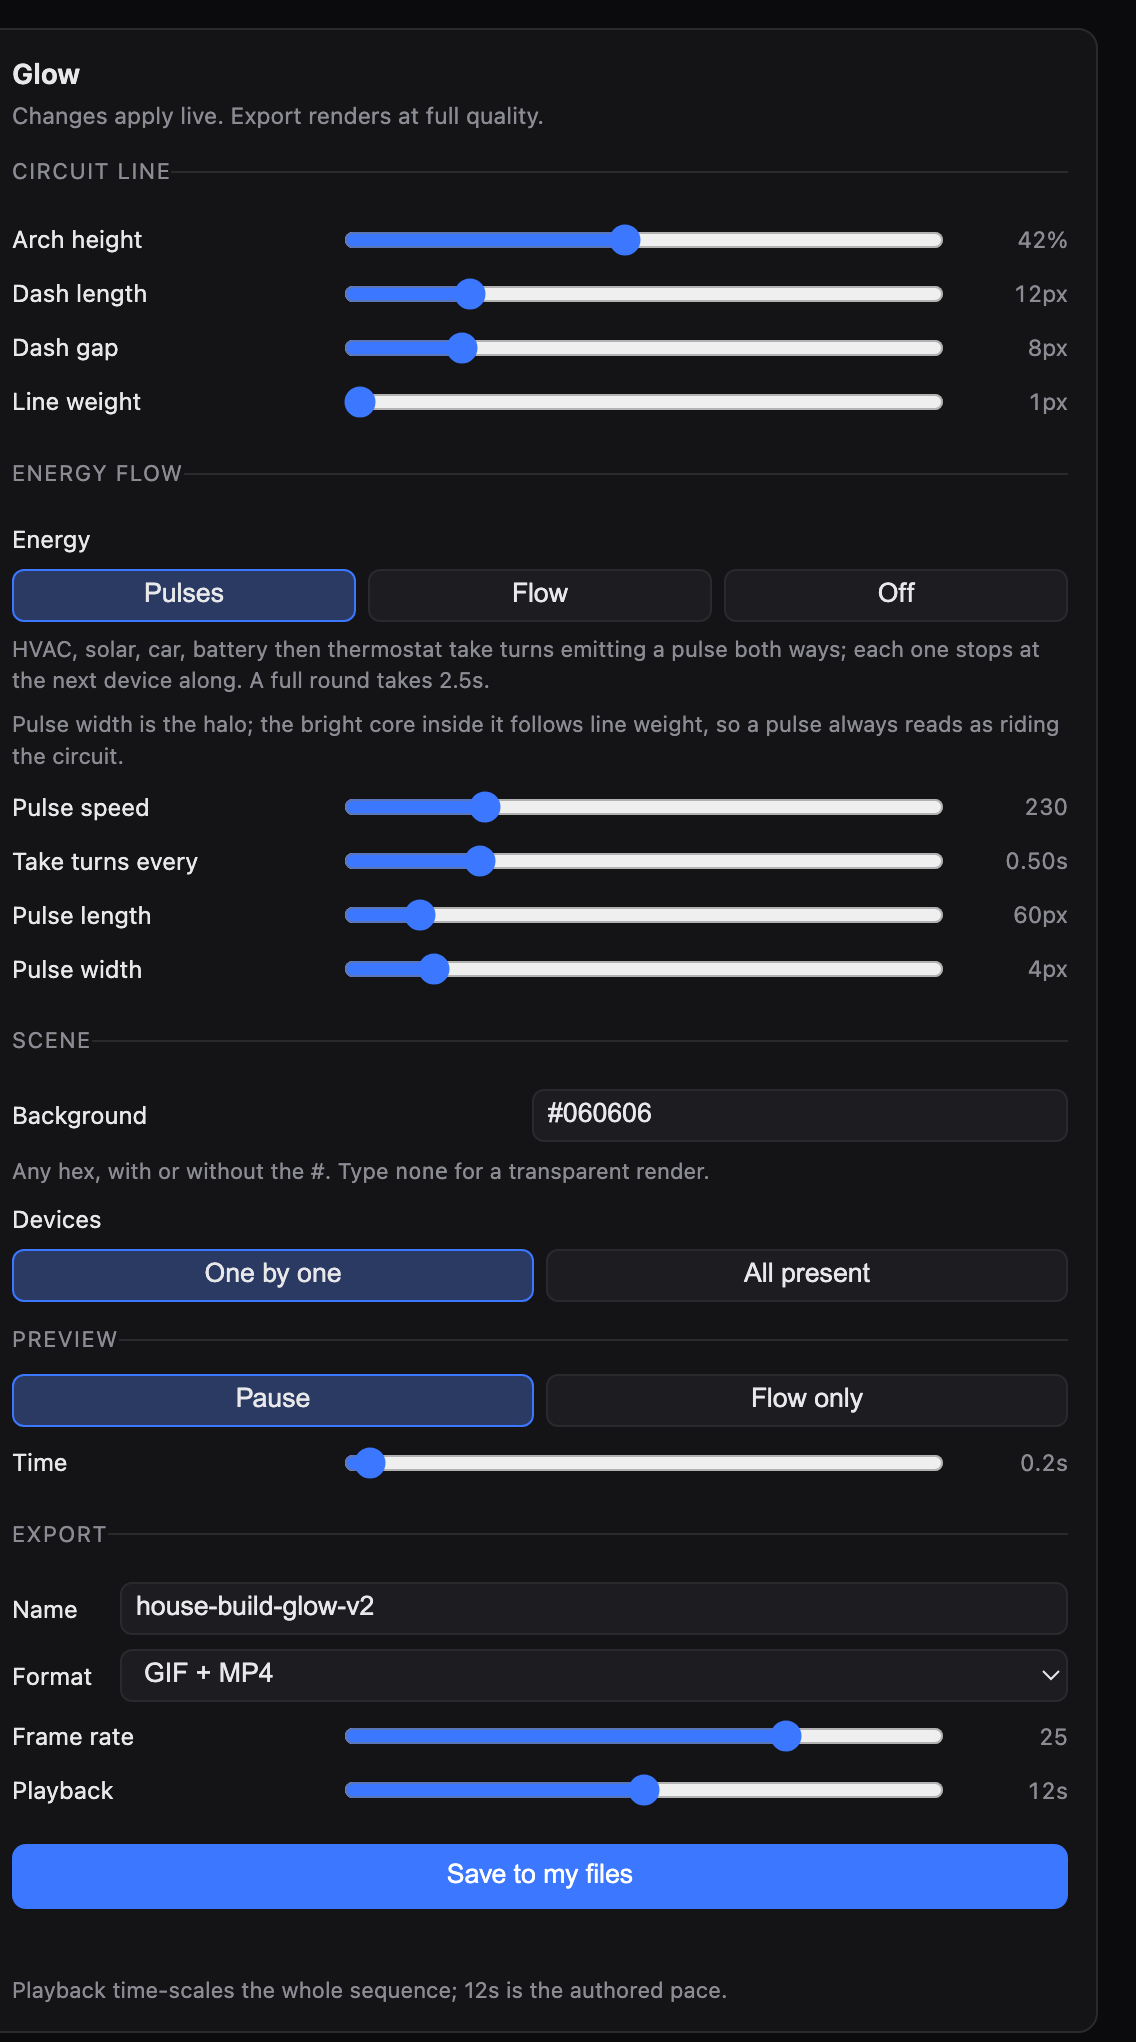
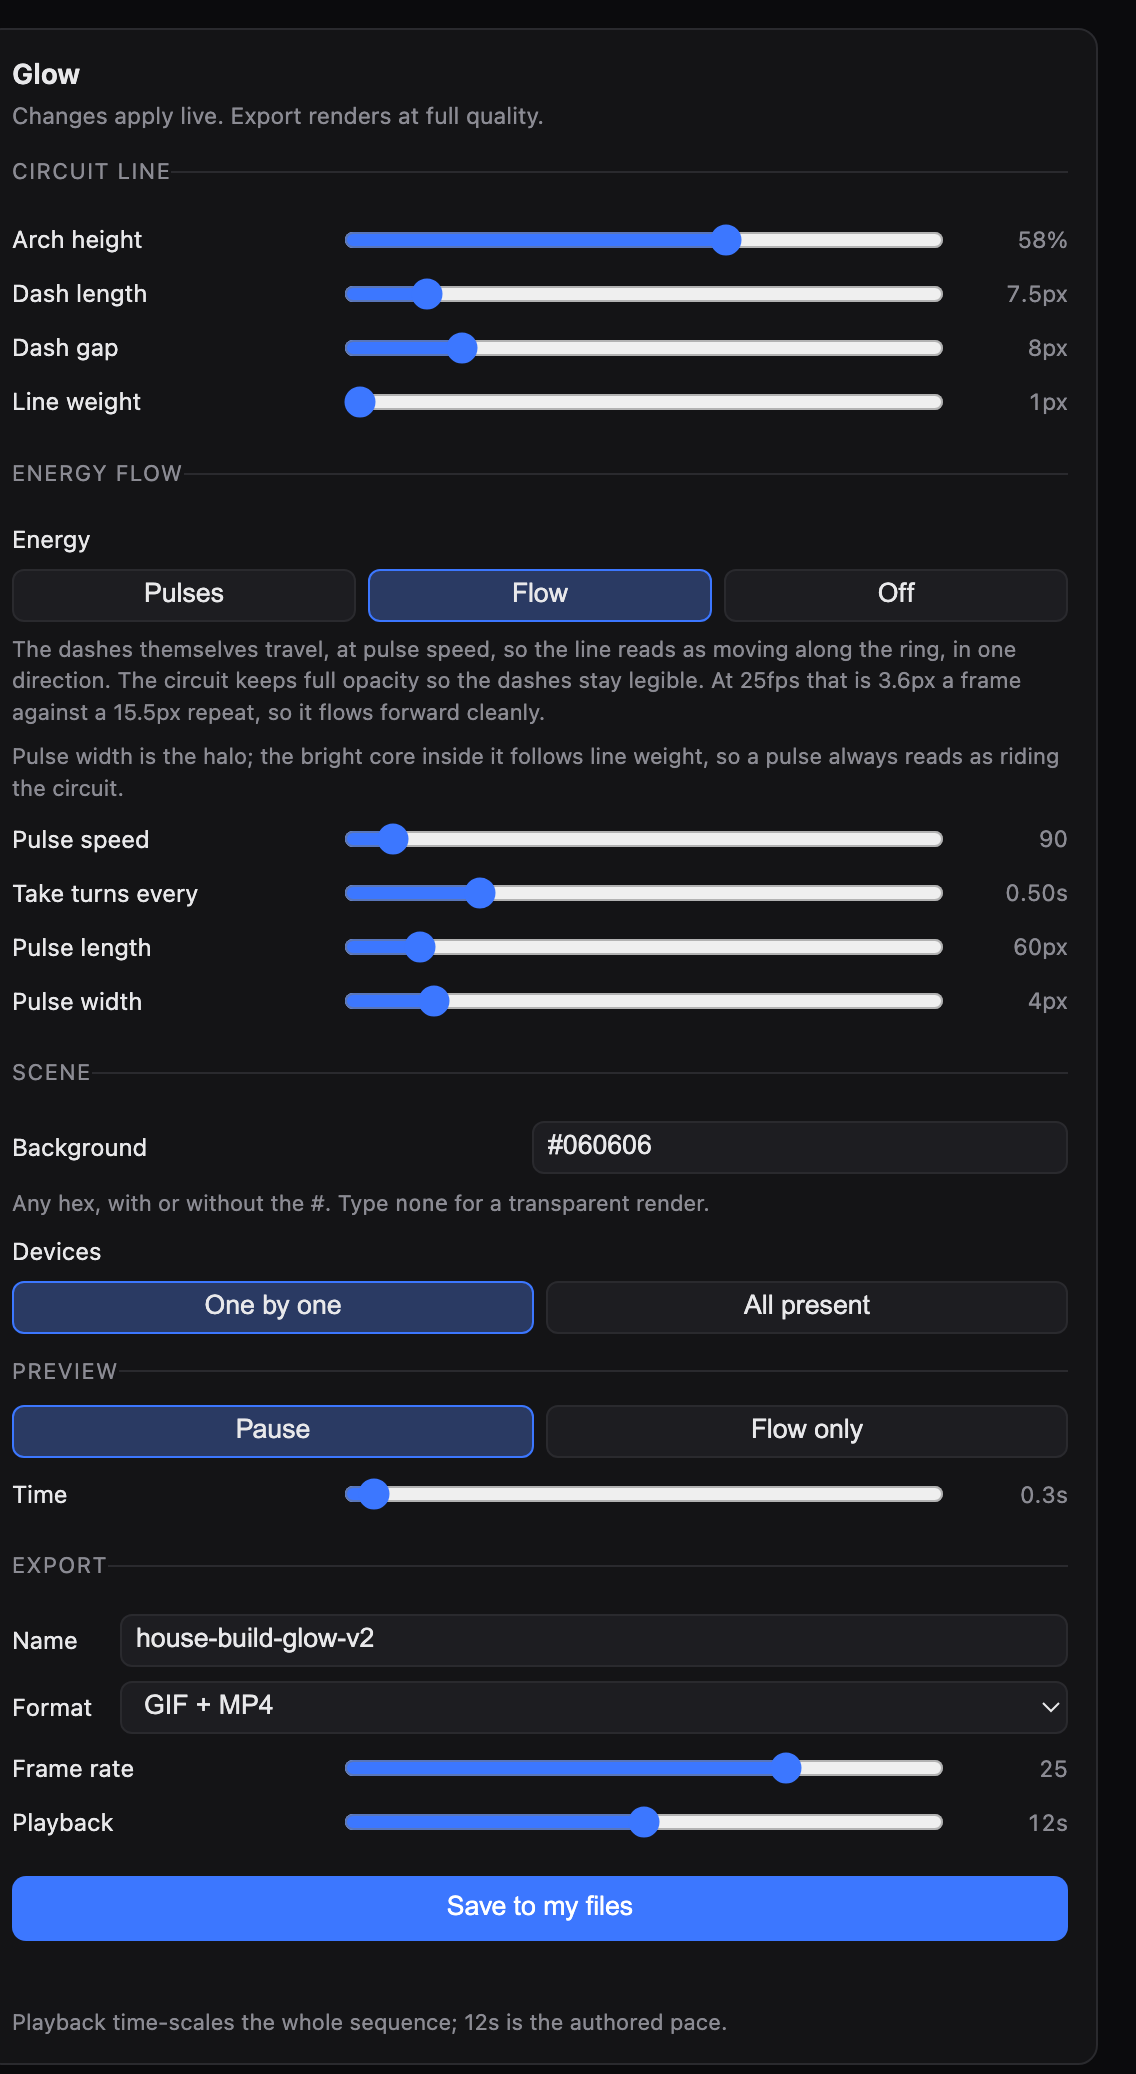
Default to flowing dashes at the tuned settings
Opens on Flow rather than Pulses, with arch height 58%, 7.5px dashes on 8px
gaps and 90px/s. That combination moves 3.6px a frame at 25fps against a
15.5px repeat, so it flows forward well clear of the aliasing threshold.

diff --git a/house-animation-glow.html b/house-animation-glow.html
@@ -187,14 +187,14 @@ const D = {
   houseFade: 0.60, mode: "sequence",
   lineDim: 0.4,        // the drawn circuit settles to this once pulses start
   layout: "ring",      // "ring" | "spokes" arches, or "wires" for the old circuit
-  arch: 0.42,          // control-point lift, as a fraction of the chord
-  dashLen: 12,         // px of drawn dash along an arch
+  arch: 0.58,          // control-point lift, as a fraction of the chord
+  dashLen: 7.5,        // px of drawn dash along an arch
   dotGap: 8,           // px of gap between dashes
   source: "devices",   // "loop" = pulses circling; "devices" = emitted by each device
   showLine: 1,         // 0 hides the circuit, leaving only the pulses
-  energy: "pulses",    // "pulses" | "flow" (the dots march) | "off"
+  energy: "flow",      // "pulses" | "flow" (the dashes march) | "off"
   emitEvery: 0.50,     // seconds between successive emissions (one device each)
-  pulseSpeed: 230      // px/sec outward
+  pulseSpeed: 90       // px/sec outward
 };
 const q = new URLSearchParams(location.search);
 const num = k => q.has(k) ? parseFloat(q.get(k)) : D[k];

diff --git a/README.md b/README.md
@@ -46,7 +46,7 @@ The arches and their lengths:
 
 ### Energy flow
 
-**Pulses** — the five devices take turns emitting, in the order HVAC, solar,
+Flow is the default. **Pulses** — the five devices take turns emitting, in the order HVAC, solar,
 car, battery, thermostat. Each emission travels out along every arch that
 device touches and stops at the far device, where it is absorbed: the head
 halts on arrival while the tail keeps closing, so a pulse grows out of the
@@ -57,9 +57,9 @@ sender and shrinks into the receiver. **Pulse speed**, **take turns every**,
 ring. Beware of aliasing here: a dash pattern that advances more than half its
 repeat between frames reads as drifting *backwards*. The panel computes this
 live from the dash length, gap, speed and export frame rate, and names the
-maximum safe speed when you cross the line. At the default 12/8 dashes, 25fps
-and 230px/s the pattern moves 9.2px a frame against a 20px repeat, which is
-fine; at 7px dots it measured −2.5px a frame, i.e. backwards.
+maximum safe speed when you cross the line. At the default 7.5/8 dashes, 25fps
+and 90px/s the pattern moves 3.6px a frame against a 15.5px repeat, which is
+fine; at 7px dots and 230px/s it measured −2.5px a frame, i.e. backwards.
 
 **Off** — the arches draw in and stay put. Both Flow and Off hold the circuit
 at full opacity, since there are no pulses for it to step back behind.
